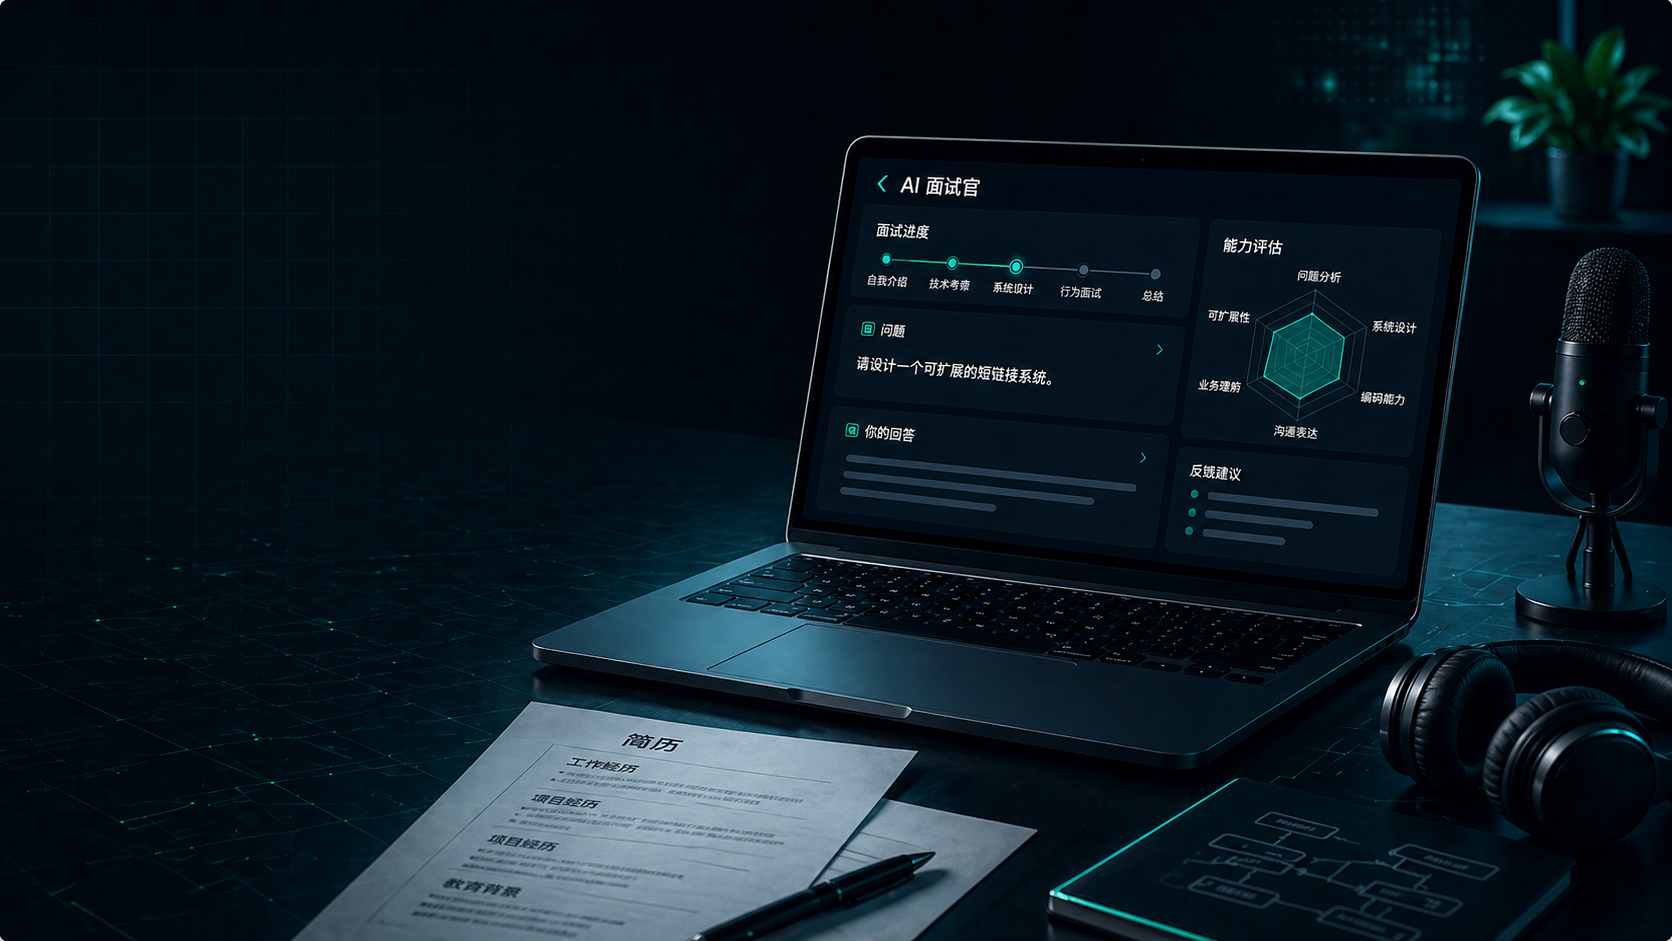
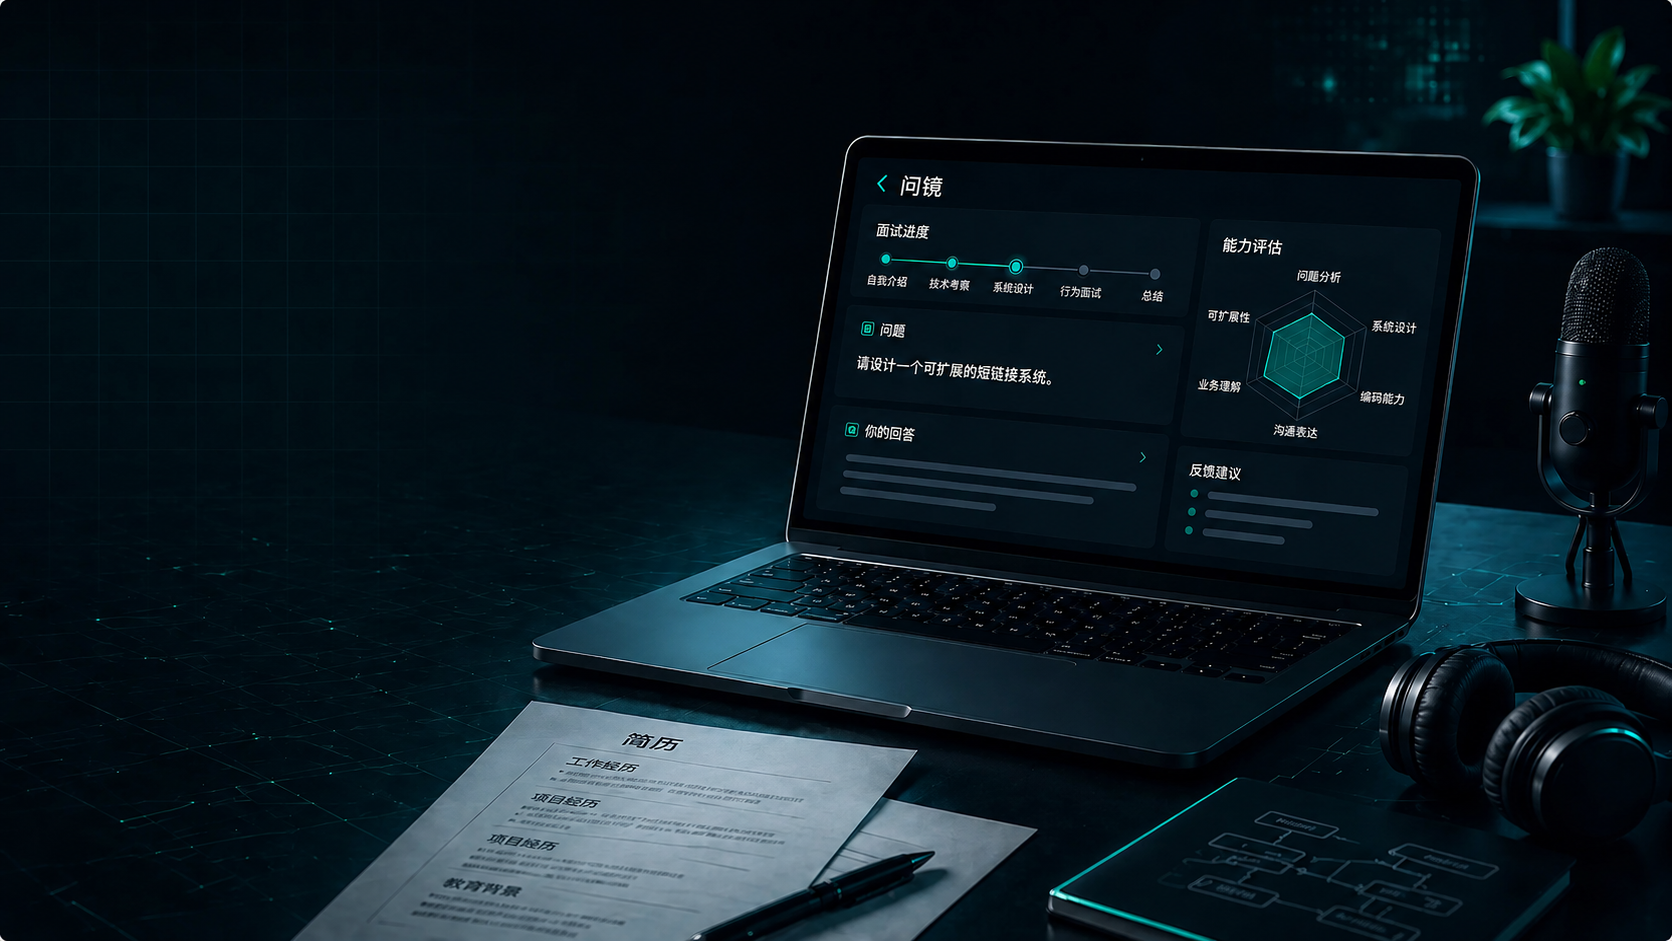
feat(frontend): refresh product brand and landing page

diff --git a/ai-interviewer/frontend/src/app/page.tsx b/ai-interviewer/frontend/src/app/page.tsx
@@ -49,8 +49,8 @@ export default function LandingPage() {
   return (
     <>
       <HeroSection />
-      <ArchitectureSection />
       <WorkflowSection />
+      <ArchitectureSection />
       <CtaSection />
     </>
   );
@@ -78,7 +78,7 @@ function HeroSection() {
               className="rounded-full border-emerald-500/30 px-3.5 py-1.5 text-xs backdrop-blur-sm"
             >
               <Sparkles className="mr-1.5 h-3 w-3 text-emerald-400" />
-              AI 面试官 · 追问评分复盘 · 下一场训练
+              问镜 · AI 模拟面试与复盘训练
             </Badge>
           </motion.div>
 
@@ -86,16 +86,15 @@ function HeroSection() {
             variants={fadeUp}
             className="max-w-[18rem] text-balance text-4xl font-semibold leading-[1.08] tracking-tight sm:max-w-none md:text-5xl lg:text-[56px]"
           >
-            一个会<span className="gradient-text">自我进化</span>的 AI 面试官
+            会追问、会评分、会<span className="gradient-text">复盘</span>的 AI 面试陪练
           </motion.h1>
 
           <motion.p
             variants={fadeUp}
             className="max-w-[32rem] text-balance text-base leading-8 text-slate-600 md:text-lg dark:text-muted-foreground"
           >
-            像真实面试一样与你对话，根据岗位需求和你的背景智能出题，
-            围绕面试主链路持续追问、评分和复盘。
-            面试结束后给出下一场训练建议。
+            问镜会根据岗位需求和你的背景生成问题，在作答后即时评估，
+            并围绕薄弱点继续追问。面试结束后，生成报告和下一场训练建议。
           </motion.p>
 
           <motion.div
@@ -124,7 +123,7 @@ function HeroSection() {
 
           <motion.div variants={fadeUp} className="flex flex-wrap gap-3 pt-2">
             <Button asChild size="lg" className="group glow-emerald-sm bg-emerald-600 hover:bg-emerald-500 text-white">
-              <PendingNavigationLink href="/interview/setup" pendingLabel="打开中...">
+              <PendingNavigationLink href="/interview/setup" pendingLabel="打开中…">
                 开始面试
                 <ArrowRight className="h-4 w-4 transition-transform group-hover:translate-x-0.5" />
               </PendingNavigationLink>
@@ -153,12 +152,12 @@ function WorkflowSection() {
   const inView = useInView(ref, { once: true, margin: "-80px" });
 
   const steps = [
-    { icon: <Zap className="h-4 w-4" />, label: "录入信息", color: "text-blue-400" },
-    { icon: <Brain className="h-4 w-4" />, label: "智能出题", color: "text-purple-400" },
-    { icon: <Sparkles className="h-4 w-4" />, label: "作答互动", color: "text-emerald-400" },
-    { icon: <BarChart3 className="h-4 w-4" />, label: "实时评估", color: "text-amber-400" },
-    { icon: <GitBranch className="h-4 w-4" />, label: "深入追问", color: "text-rose-400" },
-    { icon: <Feather className="h-4 w-4" />, label: "生成报告", color: "text-cyan-400" },
+    { icon: <Zap className="h-4 w-4" />, label: "建档定位", color: "text-blue-400" },
+    { icon: <Brain className="h-4 w-4" />, label: "规划出题", color: "text-purple-400" },
+    { icon: <Sparkles className="h-4 w-4" />, label: "作答采样", color: "text-emerald-400" },
+    { icon: <BarChart3 className="h-4 w-4" />, label: "评分验证", color: "text-amber-400" },
+    { icon: <GitBranch className="h-4 w-4" />, label: "路由追问", color: "text-rose-400" },
+    { icon: <Feather className="h-4 w-4" />, label: "报告复盘", color: "text-cyan-400" },
   ];
 
   return (
@@ -174,8 +173,11 @@ function WorkflowSection() {
             一场练习是怎么走的
           </p>
           <h2 className="text-xl font-semibold tracking-tight md:text-2xl">
-            从录入信息到拿到反馈，只要六步
+            从目标岗位到复盘报告，一条主链路跑到底
           </h2>
+          <p className="mx-auto mt-3 max-w-2xl text-sm leading-relaxed text-muted-foreground">
+            每一步都对应后端面试主链路 workflow 节点：生成问题、评估回答、验证结果、决定追问或收束，最后沉淀成可回放的训练记录。
+          </p>
         </motion.div>
 
         <div className="flex flex-wrap items-center justify-center gap-2 md:gap-0">
@@ -208,39 +210,39 @@ function ArchitectureSection() {
 
   const features = [
     {
-      icon: <GitBranch className="h-5 w-5" />,
-      title: "智能适配出题",
-      desc: "根据你的技能背景和岗位需求，动态调整问题难度和方向。",
-    },
-    {
       icon: <Brain className="h-5 w-5" />,
-      title: "多维度评估",
-      desc: "从技术深度、系统设计、沟通能力等多个维度全面评估你的表现。",
+      title: "简历/JD 驱动出题",
+      desc: "结合目标岗位、背景材料和题库策略，生成贴近真实面试的首问与后续问题。",
     },
     {
       icon: <BarChart3 className="h-5 w-5" />,
-      title: "精准评分",
-      desc: "每道题都有明确的评分标准，确保评估客观、一致、可信赖。",
+      title: "每轮即时评分",
+      desc: "作答后按维度记录评分、强项、短板和本轮反馈，报告结果可追溯。",
+    },
+    {
+      icon: <GitBranch className="h-5 w-5" />,
+      title: "薄弱点触发追问",
+      desc: "路由节点会根据评分和验证结果，决定继续追问、切换维度或收束本轮。",
     },
     {
       icon: <RotateCcw className="h-5 w-5" />,
-      title: "深度追问",
-      desc: "发现薄弱点时自动追问，帮助你全面展示真实水平。",
+      title: "训练回放与恢复",
+      desc: "会话进度、历史记录和报告可继续访问，断点恢复不打断练习链路。",
     },
     {
       icon: <Feather className="h-5 w-5" />,
-      title: "随时继续",
-      desc: "面试进度自动保存，关闭浏览器后可随时回来继续。",
+      title: "结构化复盘报告",
+      desc: "结束后汇总总体评分、维度表现、改进建议和下一场训练计划。",
     },
     {
       icon: <Sparkles className="h-5 w-5" />,
-      title: "下一场训练",
-      desc: "基于追问评分复盘，给出下一场该集中练什么。",
+      title: "Trace 观测 workflow",
+      desc: "后台可查看节点耗时、路由决策和证据来源，便于调试 agentic 链路。",
     },
   ];
 
   return (
-    <section id="features" className="container py-24" ref={ref}>
+    <section id="features" className="container scroll-mt-24 py-24" ref={ref}>
       <motion.div
         initial="hidden"
         animate={inView ? "visible" : "hidden"}
@@ -248,14 +250,15 @@ function ArchitectureSection() {
       >
         <motion.div variants={fadeUp} className="mb-12">
           <p className="mb-2 font-mono text-xs uppercase tracking-widest text-emerald-400">
-            你能得到什么
+            Agentic workflow
           </p>
           <h2 className="mb-3 text-2xl font-semibold tracking-tight md:text-3xl">
-            为你的面试准备而设计
+            把一次模拟面试拆成可观测、可恢复的主链路
           </h2>
           <p className="max-w-2xl text-sm leading-relaxed text-muted-foreground">
-            无论你是准备跳槽还是想系统提升面试能力，
-            AI 面试官都会围绕真实面试流程帮你暴露差距、校准下一场练习。
+            问镜不是单轮聊天工具，而是把出题、作答、评分、验证、追问和复盘拆成可追踪节点，
+            围绕追问评分复盘持续校准训练方向，
+            让用户拿到训练反馈，也让开发者能看清 agentic 链路如何运转。
           </p>
         </motion.div>
 
@@ -303,11 +306,11 @@ function CtaSection() {
           来场练习吧
         </h2>
         <p className="max-w-md text-sm text-muted-foreground">
-          告诉 AI 你的背景和目标岗位，几分钟之后就能开始作答。
+          告诉问镜你的背景和目标岗位，几分钟之后就能开始作答。
           按你的节奏来，没有任何压力。
         </p>
         <Button asChild size="lg" className="group glow-emerald-sm bg-emerald-600 hover:bg-emerald-500 text-white">
-          <PendingNavigationLink href="/interview/setup" pendingLabel="打开中...">
+          <PendingNavigationLink href="/interview/setup" pendingLabel="打开中…">
             立即开始
             <ArrowRight className="h-4 w-4 transition-transform group-hover:translate-x-0.5" />
           </PendingNavigationLink>

diff --git a/ai-interviewer/frontend/src/components/layout/LLMSettingsDialog.tsx b/ai-interviewer/frontend/src/components/layout/LLMSettingsDialog.tsx
@@ -346,7 +346,7 @@ export function LLMSettingsDialog({ children }: { children: React.ReactNode }) {
             LLM 配置
           </DialogTitle>
           <DialogDescription>
-            配置你的 API Key，以便 AI 面试官可以代你调用 LLM。
+            配置你的 API Key，以便问镜可以代你调用 LLM。
             默认会保留到本浏览器会话结束（关闭浏览器自动清空）；选择本机长期保存后，密钥会留在这台设备上。
           </DialogDescription>
         </DialogHeader>
@@ -446,7 +446,7 @@ export function LLMSettingsDialog({ children }: { children: React.ReactNode }) {
                   </li>
                 </ul>
                 <p className="mt-2 text-muted-foreground">
-                  建议为 AI 面试官单独申请一把额度受限的 Key，并在不再使用时去服务商后台撤销。
+                  建议为问镜单独申请一把额度受限的 Key，并在不再使用时去服务商后台撤销。
                 </p>
               </details>
             </div>

diff --git a/ai-interviewer/frontend/src/app/interview/setup/page.tsx b/ai-interviewer/frontend/src/app/interview/setup/page.tsx
@@ -4,7 +4,7 @@ import { Settings2 } from "lucide-react";
 import { SetupForm } from "@/components/interview/SetupForm";
 
 export const metadata = {
-  title: "开始面试 · AI 面试官",
+  title: "开始面试 · 问镜",
 };
 
 export default function SetupPage() {
@@ -23,7 +23,7 @@ export default function SetupPage() {
           告诉 AI 你想练什么
         </h1>
         <p className="mt-2 max-w-xl text-sm leading-relaxed text-muted-foreground">
-          填写你的背景和目标岗位，AI 面试官会据此挑选题目和评分维度。
+          填写你的背景和目标岗位，问镜会据此挑选题目和评分维度。
           没有标准答案——按你真实的想法回答即可，结束后会拿到多维度反馈和提升建议。
         </p>
         <p className="mt-3 max-w-xl text-xs leading-relaxed text-muted-foreground/80">

diff --git a/ai-interviewer/frontend/src/components/interview/InterviewRoom.tsx b/ai-interviewer/frontend/src/components/interview/InterviewRoom.tsx
@@ -82,7 +82,7 @@ import type { AggregatedVideoSignal } from "@/lib/video/types";
 
 const ENCOURAGEMENTS = [
   "已收到回答，正在准备下一题。",
-  "回答已提交，AI 面试官正在整理追问。",
+  "回答已提交，问镜正在整理追问。",
   "这一轮已记录，稍等片刻进入下一题。",
   "已保存本轮回答，继续保持节奏。",
   "提交成功，正在生成下一轮问题。",
@@ -929,7 +929,7 @@ function StatusBar({
       )}
       <span className="ml-auto flex items-center gap-1.5 text-muted-foreground">
         <Sparkles className="h-3 w-3 text-emerald-400/60" />
-        <span className="hidden sm:inline">AI 面试官追问中</span>
+        <span className="hidden sm:inline">问镜追问中</span>
       </span>
     </motion.div>
   );

diff --git a/ai-interviewer/frontend/src/app/interview/[sessionId]/report/page.tsx b/ai-interviewer/frontend/src/app/interview/[sessionId]/report/page.tsx
@@ -13,7 +13,7 @@ export function generateMetadata({ params }: PageProps): Metadata {
       ? `${params.sessionId.slice(0, 4)}…${params.sessionId.slice(-4)}`
       : params.sessionId;
   return {
-    title: `报告 ${short} · AI 面试官`,
+    title: `报告 ${short} · 问镜`,
   };
 }
 
@@ -33,7 +33,7 @@ export default function InterviewReportPage({ params }: PageProps) {
           面试报告
         </h1>
         <p className="max-w-xl text-sm leading-relaxed text-muted-foreground">
-          AI 面试官从多个维度给出了反馈和提升方向，
+          问镜从多个维度给出了反馈和提升方向，
           帮你看清当前的强项和差距。
         </p>
       </header>

diff --git a/ai-interviewer/frontend/src/components/layout/AppShell.tsx b/ai-interviewer/frontend/src/components/layout/AppShell.tsx
@@ -239,9 +239,9 @@ export function AppShell({ children }: { children: React.ReactNode }) {
             <div className="flex h-7 w-7 items-center justify-center rounded-lg bg-emerald-500/10">
               <Activity className="h-4 w-4 text-emerald-400" />
             </div>
-            <span>AI 面试官</span>
+            <span>问镜</span>
             <span className="hidden rounded-full bg-emerald-500/10 px-2 py-0.5 text-[10px] font-medium uppercase tracking-wider text-emerald-400 sm:inline">
-              预览版
+              演示版
             </span>
           </PendingNavigationLink>
 

diff --git a/ai-interviewer/frontend/src/app/layout.tsx b/ai-interviewer/frontend/src/app/layout.tsx
@@ -9,9 +9,9 @@ import { AuthProvider } from "@/lib/auth/useAuth";
 import "./globals.css";
 
 export const metadata: Metadata = {
-  title: "AI 面试官",
+  title: "问镜 | AI 模拟面试与复盘训练",
   description:
-    "面向求职者的 AI 面试练习工具，提供模拟问答、能力评估和个性化提升建议。",
+    "问镜是一套面向求职者的 AI 模拟面试与复盘训练系统，提供模拟问答、追问评分、能力评估和个性化提升建议。",
   icons: {
     icon: [{ url: "/favicon.svg", type: "image/svg+xml" }],
   },

diff --git a/ai-interviewer/frontend/tests/reportCoachLanguageSource.test.js b/ai-interviewer/frontend/tests/reportCoachLanguageSource.test.js
@@ -62,7 +62,7 @@ test("report page header keeps 面试官 + 多维度反馈 phrasing", () => {
   // header against creeping back to either招聘官 ("综合评估") or
   // over-coach ("教练反馈").
   assert.match(source, /面试报告/);
-  assert.match(source, /AI 面试官/);
+  assert.match(source, /问镜/);
   assert.match(source, /多个维度给出了反馈和提升方向/);
   assert.doesNotMatch(source, /综合评估/);
   assert.doesNotMatch(source, /教练反馈/);

diff --git a/ai-interviewer/frontend/src/components/interview/DigitalHumanStage.tsx b/ai-interviewer/frontend/src/components/interview/DigitalHumanStage.tsx
@@ -165,7 +165,7 @@ export function DigitalHumanStage({
             <div className="flex items-center justify-between gap-3">
               <div>
                 <p className="text-xs font-medium uppercase tracking-[0.24em] text-current/60">
-                  AI 面试官
+                  问镜
                 </p>
                 <h2 className="mt-1 text-xl font-semibold tracking-tight">
                   {meta.label}

diff --git a/ai-interviewer/frontend/src/components/layout/Footer.tsx b/ai-interviewer/frontend/src/components/layout/Footer.tsx
@@ -7,7 +7,7 @@ export function Footer() {
         <div className="flex items-center gap-2">
           <Activity className="h-3.5 w-3.5 text-emerald-400/60" />
           <span className="font-mono">
-            AI 面试官 · 追问评分 · 复盘训练
+            问镜 · 追问评分 · 复盘训练
           </span>
         </div>
         <div className="flex items-center gap-3">

diff --git a/ai-interviewer/frontend/tests/digitalHumanSource.test.js b/ai-interviewer/frontend/tests/digitalHumanSource.test.js
@@ -39,7 +39,7 @@ test("digital human stage exposes state and lightweight lip sync UI", () => {
   assert.match(source, /mouthOpen/);
   assert.match(source, /speaking/);
   assert.match(source, /listening_active/);
-  assert.match(source, /AI 面试官/);
+  assert.match(source, /问镜/);
   assert.match(source, /语音能量/);
 });
 

diff --git a/ai-interviewer/frontend/src/app/admin/traces/[sessionId]/page.tsx b/ai-interviewer/frontend/src/app/admin/traces/[sessionId]/page.tsx
@@ -2,7 +2,7 @@ import { AdminAccessGate } from "@/components/admin/AdminAccessGate";
 import { TraceExplorer } from "@/components/admin/TraceExplorer";
 
 export const metadata = {
-  title: "Trace Explorer · AI 面试官",
+  title: "Trace Explorer · 问镜",
 };
 
 export default function TraceExplorerPage({
